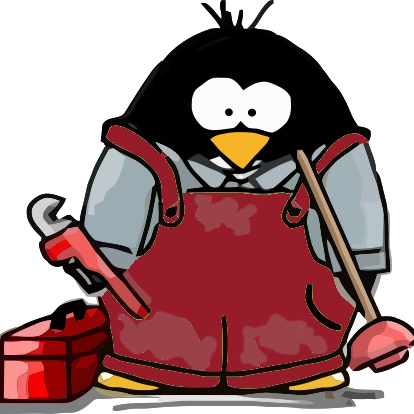
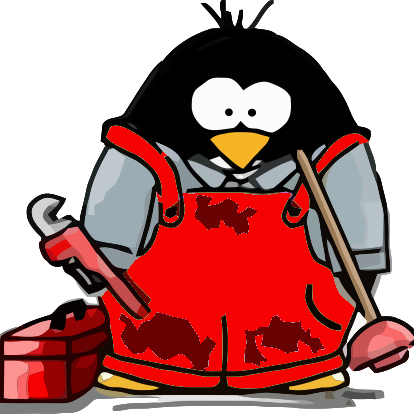
add new members
- issue-commentator
- regression-sniffer

Changed region(s): [[0.2319, 0.2899, 0.8696, 0.9565], [0.7536, 0.3188, 0.8986, 0.4348], [0.5217, 0.0, 0.5507, 0.029]]

diff --git a/README.md b/README.md
@@ -38,11 +38,19 @@
         <td><a href="https://github.com/redhat-plumbers-in-action/tracker-validator">@tracker-validator</a></td>
     </tr>
     <tr>
-        <td><img src="members/red-plumber.png" width = 139px height = 139px></td>
+        <td><img src="members/bordo-plumber.png" width = 139px height = 139px></td>
         <td><a href="https://github.com/redhat-plumbers-in-action/pull-request-validator">@pull-request-validator</a></td>
+    </tr>
+    <tr>
+        <td><img src="members/red-plumber.png" width = 139px height = 139px></td>
+        <td><a href="https://github.com/redhat-plumbers-in-action/issue-commentator">@issue-commentator</a></td>
     </tr>
     <tr>
         <td><img src="members/yellow-plumber.png" width = 139px height = 139px></td>
         <td><a href="https://github.com/redhat-plumbers-in-action/auto-merge">@auto-merge</a></td>
+    </tr>
+    <tr>
+        <td><img src="members/viridian-plumber.png" width = 139px height = 139px></td>
+        <td><a href="https://github.com/redhat-plumbers-in-action/regression-sniffer">@regression-sniffer</a></td>
     </tr>
 </table>
